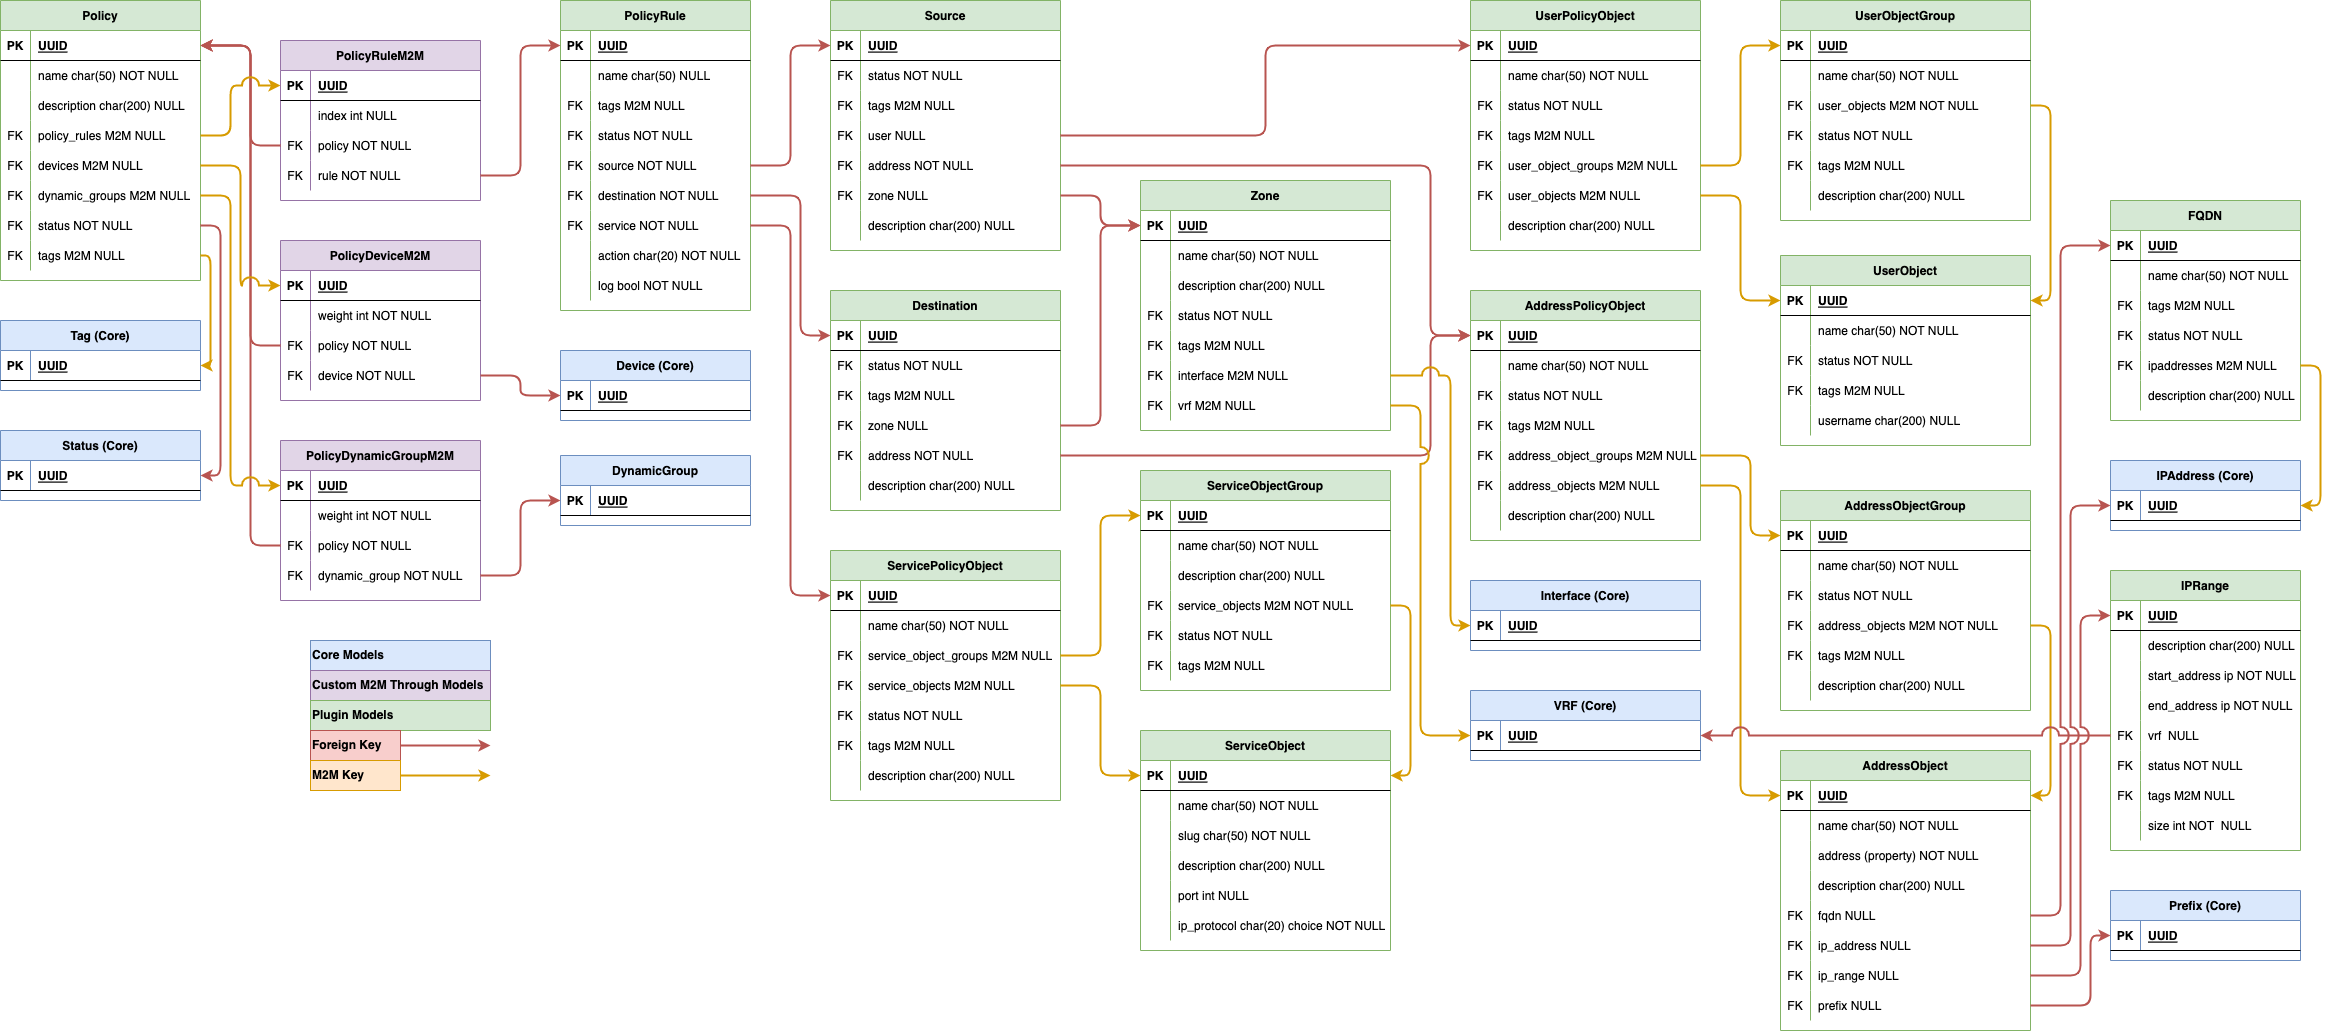
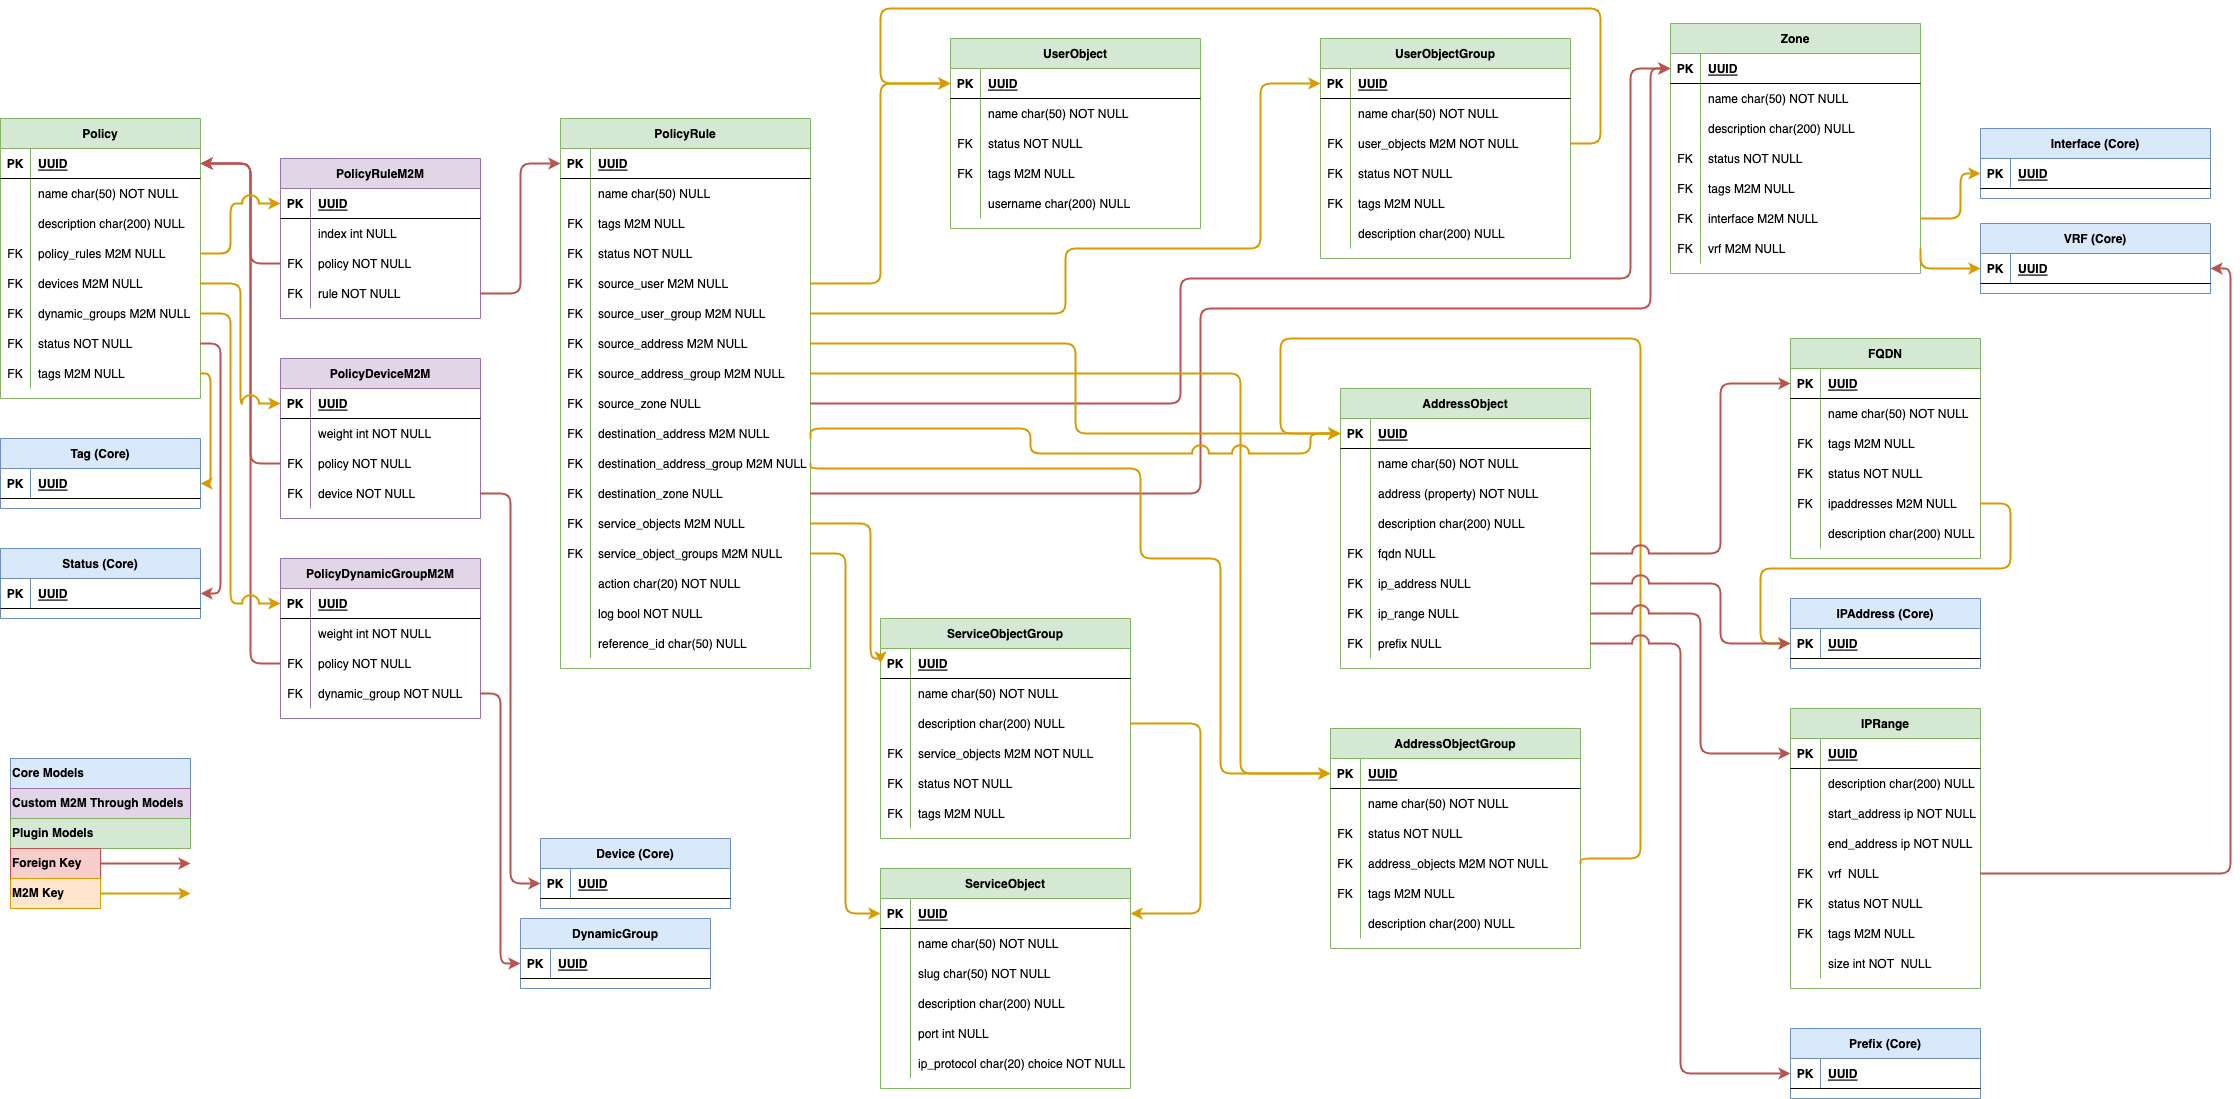
update docs

Changed region(s): [[0.0, 0.0, 1.0, 1.0], [0.2188, 0.7449, 0.3438, 0.9001], [0.0, 0.6828, 0.0938, 0.838]]

diff --git a/README.md b/README.md
@@ -20,30 +20,24 @@ Once installed, the plugin needs to be enabled in your `nautobot_config.py`
 ```python
 # In your nautobot_config.py
 PLUGINS = ["nautobot_firewall_models"]
+
+# Optional to overload the default status from Action
+# IF overloaded the status_name _must_ exist AND have all firewall content-types associated
+PLUGINS_CONFIG = {
+    "nautobot_firewall_models": {
+        "status_name": "Active"
+    }
+}
 ```
 
 ## Usage
 A plugin for [Nautobot](https://github.com/nautobot/nautobot) that is meant to model layer 4 firewall policies and/or extended access control lists. 
 
-### Assigning Policies
-Policies have a `devices` attribute that is a many to many relationship to the `nautobot.dcim.models.Device` object, doing so allows for the same policy to be associated with multiple `Device` objects. *IF* you would like to associate a `Policy` to another object type, custom relationships cans be used to extend how you associate the policy. Concepts of clustering and high availability are currently not in scope of this plugin.
-
-### Service Object
-The `Service` object within the plugin is not the same as `nautobot.ipam.models.Service`, the IPAM representation of the object is meant to define services running on a single `Device` or `VirtualMachine` object *NOT* a representation of port/protocol that may or may not have a device or IP associated to it.
-
 ## Screenshots
 
 <p align="center">
-<img src="./docs/images/navigation.png" class="center">
-<img src="./docs/images/policylist.png" class="center">
+<img src="./docs/images/navmenu.png" class="center">
 <img src="./docs/images/policy.png" class="center">
-<img src="./docs/images/policyrulelist.png" class="center">
-<img src="./docs/images/policyrule.png" class="center">
-<img src="./docs/images/destination.png" class="center">
-<img src="./docs/images/serviceobjectlist.png" class="center">
-<img src="./docs/images/addresspolicyobjectlist.png" class="center">
-<img src="./docs/images/addressobjectgrouplist.png" class="center">
-<img src="./docs/images/addressobjectlist.png" class="center">
 </p>
 
 ### Models
@@ -51,185 +45,9 @@ The `Service` object within the plugin is not the same as `nautobot.ipam.models.
 <img src="./docs/images/datamodel.png" class="center">
 </p>
 
+### Assigning Policies
+Policies have a `assigned_devices` attribute that is a many to many relationship to the `nautobot.dcim.models.Device` object, doing so allows for the same policy to be associated with multiple `Device` objects. `DynamicGroups` can also be used for assigning policies to a device through a dynamic group, this is done via the `assigned_dynamic_groups` attribute. *IF* you would like to associate a `Policy` to another object type, custom relationships cans be used to extend how you associate the policy. Concepts of clustering and high availability are currently not in scope of this plugin.
 
-#### Address
-* FQDN:
-  * Endpoint: `/api/plugins/firewall/fqdn/`
-  * Fully qualified domain names
-  * Can be tied to IP Addresses in Nautobot in a `ManyToMany` relationship
-* IP Range: 
-  * Endpoint: `/api/plugins/firewall/ip-range/`
-  * Range of IP Addresses `10.0.0.1-10.0.0.10`
-  * Must be unique with `start_address`, `end_address`, & `vrf`
-  * `vrf` is an optional attribute
-* Address Object: 
-  * Endpoint: `/api/plugins/firewall/address-object/`
-  * Defines all possible addresses as a common object
-  * `address` attribute will return the related object
-  * Can be one of the following
-    * `ipam.IPAddress`
-    * `ipam.Prefix`
-    * `FQDN`
-    * `IPRange`
-* Address Object Group:
-  * Endpoint: `/api/plugins/firewall/address-object-group/`
-  * Holds `ManyToMany` relationships to `AddressObject`
-* Address Policy Object:
-  * Endpoint: `/api/plugins/firewall/address-policy-object/`
-  * Holds `ManyToMany` relationships to `AddressObject` & `AddressObjectGroup`
-  * Allows for a single or group `AddressObject` & `AddressObjectGroup` to be mapped to policy
-  * Does NOT require a nested object to be set. (Example. `any` to signify any address)
-  * Used for `Source` & `Destination`
-
-#### Service
-* Service Object:
-  * Endpoint: `/api/plugins/firewall/service-object/`
-  * Defines Port/Name/IP Protocol as an common object
-* Service Object Group:
-  * Endpoint: `/api/plugins/firewall/service-object-group/`
-  * Holds `ManyToMany` relationships to `ServiceObject`
-* Service Policy Object:
-  * Endpoint: `/api/plugins/firewall/service-policy-object/`
-  * Holds `ManyToMany` relationships to `ServiceObject` & `ServiceObjectGroup`
-  * Allows for a single or group `ServiceObject` & `ServiceObjectGroup` to be mapped to policy
-  * Does NOT require a nested object to be set. (Example. `any` to signify any service)
-  * Used for `Source` & `Destination`
-
-#### User
-* User Object:
-  * Endpoint: `/api/plugins/firewall/user-object/`
-  * Defines users as objects for policies.
-  * `NOT` related to Nautobot User objects.
-* User Object Group:
-  * Endpoint: `/api/plugins/firewall/user-object-group/`
-  * Holds `ManyToMany` relationships to `UserObject`
-* User Policy Object:
-  * Endpoint: `/api/plugins/firewall/user-policy-object/`
-  * Holds `ManyToMany` relationships to `UserObject` & `UserObjectGroup`
-  * Allows for a single or group `UserObject` & `UserObjectGroup` to be mapped to policy
-  * Does NOT require a nested object to be set. (Example. `any` to signify any user)
-  * Only used for `Source`
-  * Feature may not be supported in all L4 firewalls.
-
-#### Zone
-* Zone:
-  * Endpoint: `/api/plugins/firewall/zone/`
-  * Simple model to define firewall zones.
-
-#### Policy
-* Source/Destination:
-  * Endpoint: `/api/plugins/firewall/source-destination/`
-  * Builds a source definition that includes the following attrs.
-    * `AddressPolicyObject` (Required)
-    * `ServicePolicyObject` (Required)
-    * `UserPolicyObject` (Optional)
-    * `Zone` (Optional)
-    * Description (Optional)
-    * `Status` (Required)
-* Policy Rule:
-  * Endpoint: `/api/plugins/firewall/policy-rule/`
-  * Builds an individual firewall policy rule/term with the following attrs.
-    * Name (Optional)
-    * Description (Optional)
-    * Index (Required)
-    * Action (Required)
-    * Log (Required)
-    * Source `SourceDestination` (Required)
-    * Destination `SourceDestination` (Required)
-    * `Status` (Required)
-* Policy:
-  * Endpoint: `/api/plugins/firewall/policy/`
-  * Final product of individual firewall policy rules/terms combined into a complete firewall policy.
-    * Name (Required)
-    * Description (Optional)
-    * `PolicyRules` (Required)
-    * `Devices` (Required)
-    * `Status` (Required)
-
-### Rest API
-The plugin includes API endpoints to manage its related objects, complete info in the Swagger section.### GraphQL API
-All objects are available for GraphQL queries.
-
-#### Sample GraphQL Query
-
-```
-query {
-  policies {
-    name
-    description
-    policy_rules {
-      index
-      tags {
-        name
-      }
-      action
-      log
-      source {
-        description
-        zone {
-          name
-        }
-				user {
-          user_objects {
-            username
-          }
-          user_object_groups {
-            user_objects {
-              username
-            }
-          }
-        }
-        address {
-          address_objects {
-            name
-          }
-          address_object_groups {
-            address_objects {
-              name
-            }
-          }
-        }
-        service {
-          service_objects {
-            name
-          }
-          service_object_groups {
-            service_objects {
-              name
-            }
-          }
-        }
-      }
-      destination {
-        description
-        zone {
-          name
-        }
-        address {
-          address_objects {
-            name
-          }
-          address_object_groups {
-            address_objects {
-              name
-            }
-          }
-        }
-        service {
-          service_objects {
-            name
-          }
-          service_object_groups {
-            service_objects {
-              name
-            }
-          }
-        }
-      }
-    }
-  }
-}
-```
 
 ## Contributing
 
@@ -311,6 +129,9 @@ Once you have Poetry and Docker installed you can run the following commands to 
 poetry shell
 poetry install
 invoke start
+
+## Optionally you can populate a minimal set of demo data for the plugin
+invoke testdata
 ```
 
 Nautobot server can now be accessed at [http://localhost:8080](http://localhost:8080).

diff --git a/GETTING_STARTED.md b/GETTING_STARTED.md
@@ -165,6 +165,17 @@ This will safely shut down all of your running Docker containers for this projec
 
 > NOTE: If you're wanting to reset the database and configuration settings, you can use the `invoke destroy` command, but it will result in data loss so make sure that is what you want to do.
 
+### Populate Test Data
+
+To simplify setting a development environment a management command is available that is also wrapped in an invoke command. The management command utilizes the same data that is used to run the unittests and will stay up to date based on data model changes. IF you are running a development environment outside of docker or would like to deploy in a test environment the management command without invoke is `nautobot-server create_test_firewall_data`
+
+```bash
+➜ invoke testdata
+Creating nautobot_firewall_models_nautobot_run ... done
+Attempting to populate dummy data.
+Successfully populated dummy data!
+```
+
 ### Real-Time Updates? How Cool!
 
 Your environment should now be fully setup, all necessary Docker containers are created and running, and you're logged into Nautobot in your web browser. Now what?
